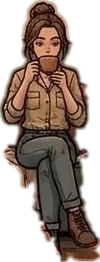
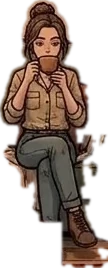
Salon : Papa dans le fauteuil avec ses bottes, jambes récupérées pour Léo, Emma et Maman

diff --git a/piece.js b/piece.js
@@ -697,7 +697,8 @@ function dormeurLit(lit){
    (de gauche à droite : Papa, Léo, Emma, Maman). Chaque place est découpée à la silhouette, sans toucher aux coussins. */
 // Version 2 (2026-11-12) : deux images Gemini avec deux personnes espacées, silhouettes recalées chacune sur sa place ;
 // ordre de pose Léo, Papa, Emma, Maman (Papa devant le bras de Léo), puis la table basse et ses objets reposés devant eux
-var PLACES_CANAPE = { "Léo":[427, 354, 538, 574, "leo"], "Papa":[310, 339, 470, 600, "papa"], "Emma":[521, 374, 616, 587, "emma"], "Maman":[610, 353, 710, 615, "maman"] };
+// Papa est dans le fauteuil (3e image Gemini : ses bottes sont visibles, ce qui n'était pas possible sur le canapé derrière la table)
+var PLACES_CANAPE = { "Papa":[120, 352, 362, 717, "fauteuil-papa"], "Léo":[390, 354, 502, 575, "canape-leo"], "Emma":[521, 374, 616, 582, "canape-emma"], "Maman":[606, 353, 714, 621, "canape-maman"] };
 function auSalon(r){
   if(!G || !G.m) return false;
   var i = G.m.findIndex(function(y){ return roleDormeur(y) === r; }), x = G.m[i];
@@ -708,8 +709,8 @@ function auSalon(r){
   P.decor = P.decor || [];
   var apres = 0; P.decor.forEach(function(d, k){ if(typeof d[0] === "string" && (d[0].indexOf("images/barricades/") === 0 || d[0].indexOf("images/feux/") === 0)) apres = k + 1; });
   var places = Object.keys(PLACES_CANAPE).map(function(r){ var L = PLACES_CANAPE[r];
-    return ["images/personnages/canape-" + L[4] + ".webp", L[0], L[1], L[2], L[3], function(){ return auSalon(r); }]; });
-  places.push(["images/personnages/canape-table.webp", 360, 490, 665, 695, function(){ return Object.keys(PLACES_CANAPE).some(auSalon); }]);
+    return ["images/personnages/" + L[4] + ".webp", L[0], L[1], L[2], L[3], function(){ return auSalon(r); }]; });
+  places.push(["images/personnages/canape-table.webp", 360, 490, 665, 695, function(){ return ["Léo", "Emma", "Maman"].some(auSalon); }]);
   Array.prototype.splice.apply(P.decor, [apres, 0].concat(places));
 })();
 

diff --git a/site/piece.js b/site/piece.js
@@ -697,7 +697,8 @@ function dormeurLit(lit){
    (de gauche à droite : Papa, Léo, Emma, Maman). Chaque place est découpée à la silhouette, sans toucher aux coussins. */
 // Version 2 (2026-11-12) : deux images Gemini avec deux personnes espacées, silhouettes recalées chacune sur sa place ;
 // ordre de pose Léo, Papa, Emma, Maman (Papa devant le bras de Léo), puis la table basse et ses objets reposés devant eux
-var PLACES_CANAPE = { "Léo":[427, 354, 538, 574, "leo"], "Papa":[310, 339, 470, 600, "papa"], "Emma":[521, 374, 616, 587, "emma"], "Maman":[610, 353, 710, 615, "maman"] };
+// Papa est dans le fauteuil (3e image Gemini : ses bottes sont visibles, ce qui n'était pas possible sur le canapé derrière la table)
+var PLACES_CANAPE = { "Papa":[120, 352, 362, 717, "fauteuil-papa"], "Léo":[390, 354, 502, 575, "canape-leo"], "Emma":[521, 374, 616, 582, "canape-emma"], "Maman":[606, 353, 714, 621, "canape-maman"] };
 function auSalon(r){
   if(!G || !G.m) return false;
   var i = G.m.findIndex(function(y){ return roleDormeur(y) === r; }), x = G.m[i];
@@ -708,8 +709,8 @@ function auSalon(r){
   P.decor = P.decor || [];
   var apres = 0; P.decor.forEach(function(d, k){ if(typeof d[0] === "string" && (d[0].indexOf("images/barricades/") === 0 || d[0].indexOf("images/feux/") === 0)) apres = k + 1; });
   var places = Object.keys(PLACES_CANAPE).map(function(r){ var L = PLACES_CANAPE[r];
-    return ["images/personnages/canape-" + L[4] + ".webp", L[0], L[1], L[2], L[3], function(){ return auSalon(r); }]; });
-  places.push(["images/personnages/canape-table.webp", 360, 490, 665, 695, function(){ return Object.keys(PLACES_CANAPE).some(auSalon); }]);
+    return ["images/personnages/" + L[4] + ".webp", L[0], L[1], L[2], L[3], function(){ return auSalon(r); }]; });
+  places.push(["images/personnages/canape-table.webp", 360, 490, 665, 695, function(){ return ["Léo", "Emma", "Maman"].some(auSalon); }]);
   Array.prototype.splice.apply(P.decor, [apres, 0].concat(places));
 })();
 

diff --git a/site/sw.js b/site/sw.js
@@ -4,7 +4,7 @@
    IMPORTANT : à chaque mise à jour du jeu, changer VERSION (sinon les
    téléphones garderaient l'ancienne copie).
    ===================================================================== */
-var VERSION = "survival-20261112-0922";
+var VERSION = "survival-20261112-0932";
 var FICHIERS = [
   "./",
   "index.html",

diff --git a/CLAUDE.md b/CLAUDE.md
@@ -386,6 +386,7 @@ Logo du jeu avant « Jour N » aussi sur téléphone (2026-11-11, demande de Fab
 En-tête corrigé (2026-11-12, retour de Fabien « n'importe quoi dans le header ») : avec le logo, les pastilles du haut du téléphone étaient écrasées (icônes de 4 px). Sur téléphone, la saison n'est plus qu'une icône (`.ch-nom` caché) à côté de « Chapitre N » ; sur PC, retour à l'en-tête d'avant (chapitre en texte, saison sur sa ligne). Les icônes des pastilles ne rétrécissent plus (`flex:none`) ; sur PC (≥ 1400 px) le petit nom (« EAU », « DÉFENSE ») passe SOUS le chiffre (à côté, il ne tenait qu'en écrasant l'icône à 1-8 px, défaut ancien). Le contrôleur signale maintenant « Icône écrasée » (moins de 9 px, sauf pendant une animation)
 Images Gemini du 2026-11-12 (4 demandées, 3 reçues ; la scène de la voiture abandonnée du siphon reste à faire) : 1) recrues au lit (`images/sources/chambre-recrues-gemini.jpg`, 1024 × 1024 recalée en 1024 × 1040) : Sam lit du haut (zone remontée à y 212, sinon cheveux coupés), Nora lit du bas, Yanis matelas de gauche, Inès matelas de droite → `images/personnages/chambre-sam|nora|yanis|ines.webp` ; lits par emplacement (`LITS_CHAMBRE` haut / bas / gauche / droite, `LIT_DE`, `dormeurLit(lit)` : le membre d'origine d'abord, une recrue seulement si ce membre n'est plus là). 2) la famille sur le canapé du salon (`images/sources/canape-famille-gemini.jpg`, même cadre que `refuge-fond-eteint-propre`) : de gauche à droite Papa, Léo, Emma, Maman, découpés à la silhouette (contour tracé à la main × différence avec la pièce, pour garder les coussins et le plaid d'origine) → `images/personnages/canape-<rôle>.webp`, `PLACES_CANAPE`, `auSalon(r)` : en vie, au refuge, pas épuisé (sinon au lit), pas choisi pour partir ; posés juste après le feu et les fenêtres (sous Rex et les cartes). Les recrues n'ont pas de place sur le canapé. 3) 6 icônes peintes (`images/sources/icones-13-gemini.jpg`) : `cleMolette` (🔧, onglet Réparer), `siphon` (🧪, le kit), `menu` (☰), `plus` (➕), `etoilePleine` (★), `etoileVide` (☆). Guide « Le refuge » : la famille sur le canapé et au lit
 Canapé version 2 (2026-11-12, retour de Fabien : la 1re découpe gardait un bout de Maman avec Emma, des jambes et le chignon coupés) : 2 images Gemini avec deux personnes espacées (`images/sources/canape-papa-emma-gemini.jpg`, `canape-leo-maman-gemini.jpg`) ; Gemini a mis Papa et Léo, puis Emma et Maman, presque au même endroit, donc chaque silhouette (différence avec la pièce, morceau rattaché au corps, trous bouchés) est recalée sur sa place : centres x 390 / 482 / 568 / 660 (`PLACES_CANAPE`, ordre de pose Léo, Papa, Emma, Maman). La table basse et ses objets (lanterne, tasse, livres) sont reposés devant eux (`images/personnages/canape-table.webp`, découpée dans la pièce). Page de vérification privée : https://claude.ai/artifact/Ksd65n42gfk6XyCJ4V8DeR
+Salon version 3 (2026-11-12, retour de Fabien : pieds et bas des jambes manquants) : Papa est maintenant dans le FAUTEUIL (3e image Gemini `images/sources/fauteuil-papa-gemini.jpg`, bottes visibles ; `images/personnages/fauteuil-papa.webp`, avec le fauteuil redessiné sans plaid). Léo reste à sa place d'origine (plus de décalage), Emma et Maman restent recalées ; les bas de jambes sont récupérés (zone des jambes avec un seuil plus bas, le jean ressemblant au canapé) jusqu'au bord de la table ; leurs pieds restent derrière la table, comme dans la pièce. `PLACES_CANAPE` donne maintenant le nom complet du fichier ; la table n'est reposée que si quelqu'un est sur le canapé
 Décor des assauts : la cour fortifiée (`piece-bastion-cour.webp`) sert de fond au combat pendant un assaut (ui.js, `openCombat`).
 Bilan de difficulté (2026-11-10, simulation après tous les ajouts) : Malin vit 85 jours (médiane, 10 % ≤ 68, 90 % ≤ 104, max 122), 96 % atteignent le jour 60, 79 % le jour 75, seulement 16 % le jour 100 ; Naïf 10 jours (1re mort au jour 5). Causes de mort de Malin : attaques de nuit, puis soif, puis faim. Assauts (2 membres, robot Auto, 200 essais) : bastion faible = 100 % de victoires ; remparts 5 + armurerie 3 + cible au jour 200 = 0 % (7 % avec gilets, casques, boucliers et camion au maximum) : courbe trop raide, à lisser. Jour d'accès aux clans : 100 jugé trop long.
 Réglages du 2026-11-10 (choix de Fabien : 30 jours) :
